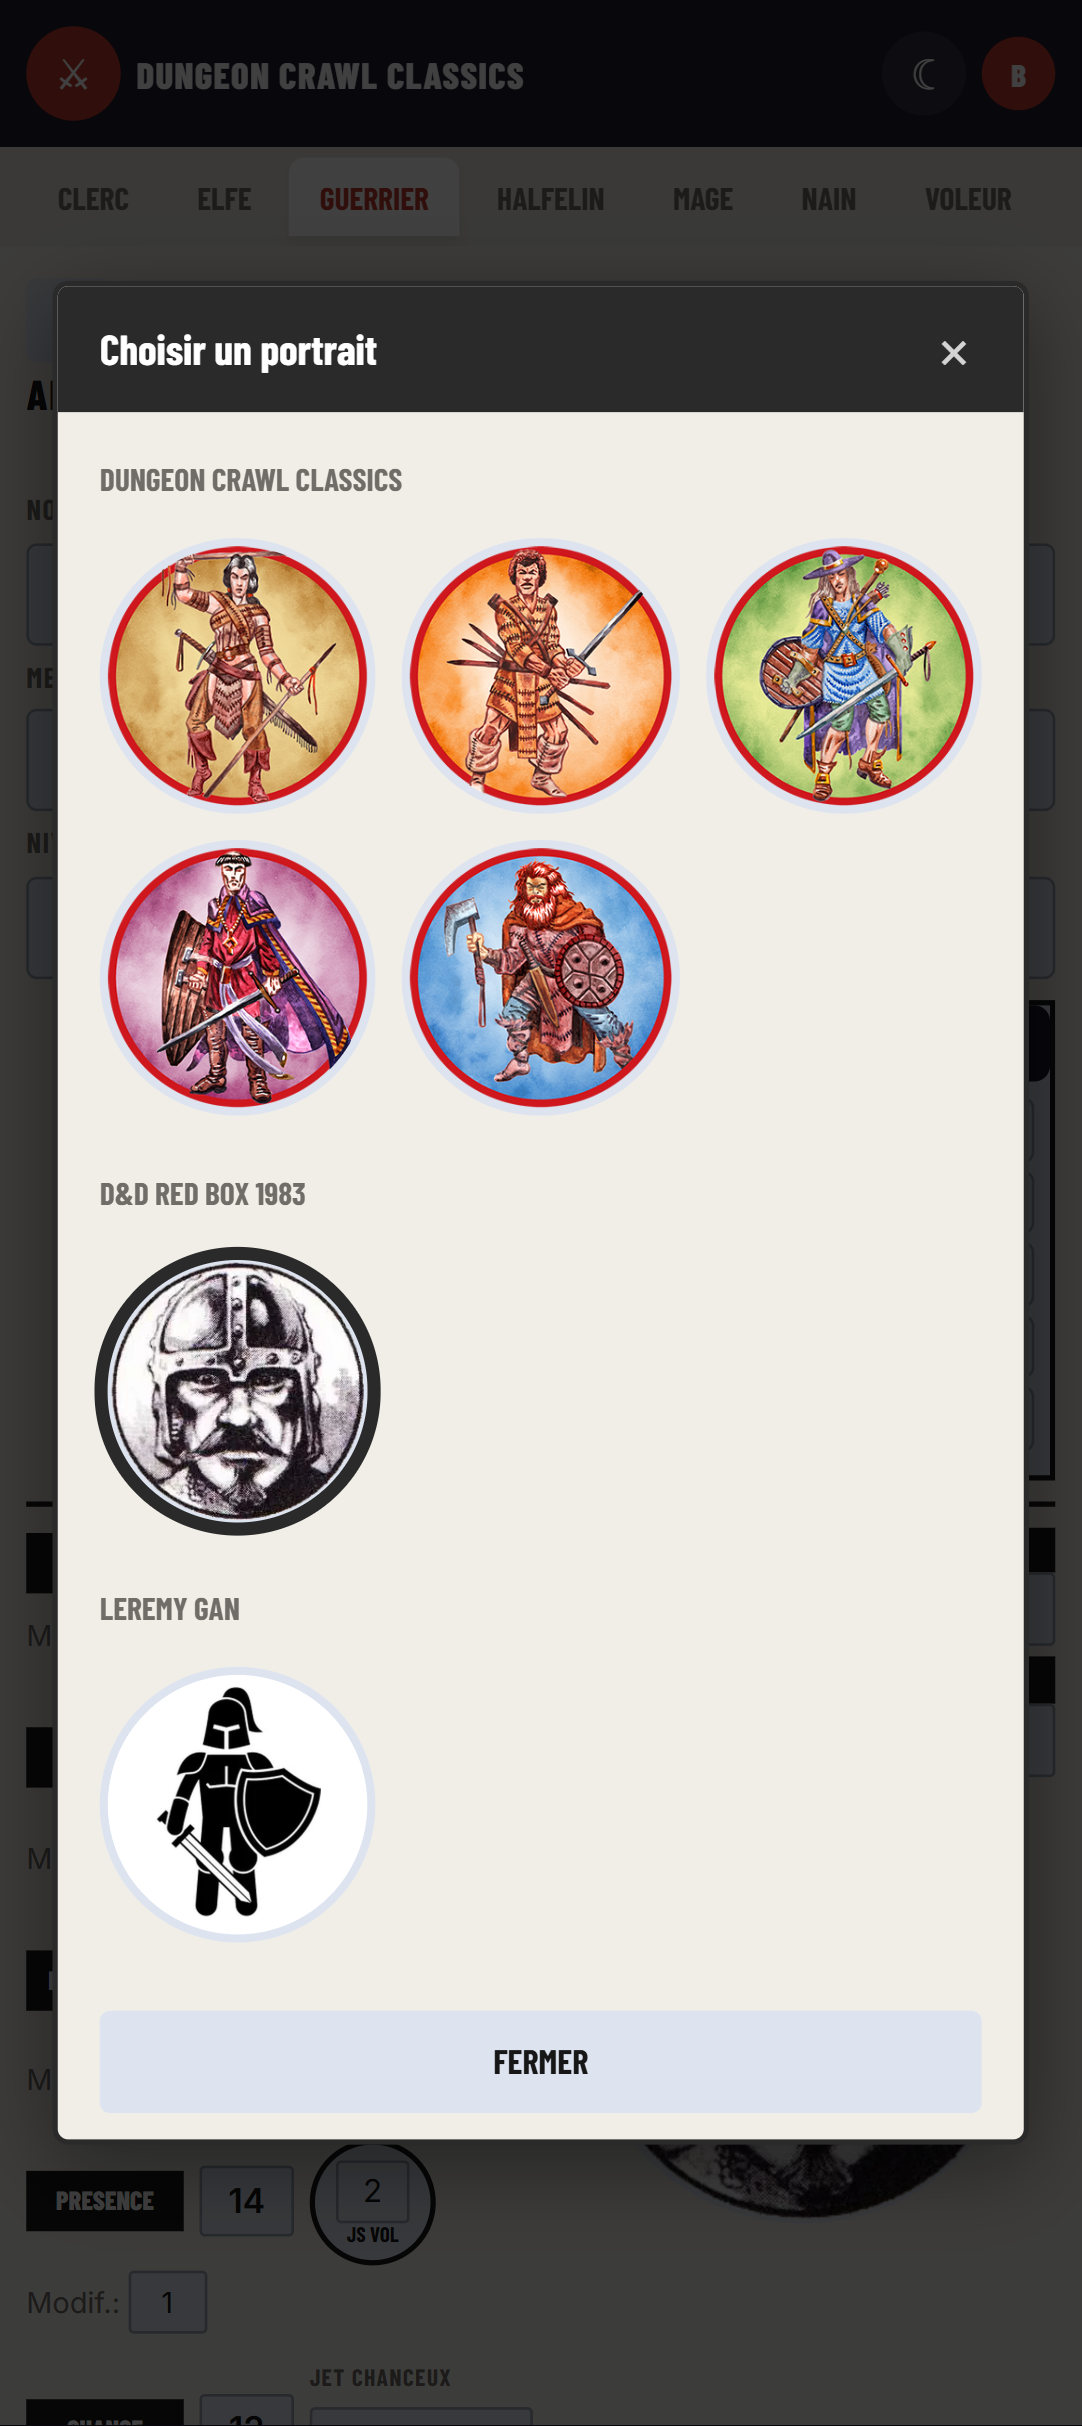
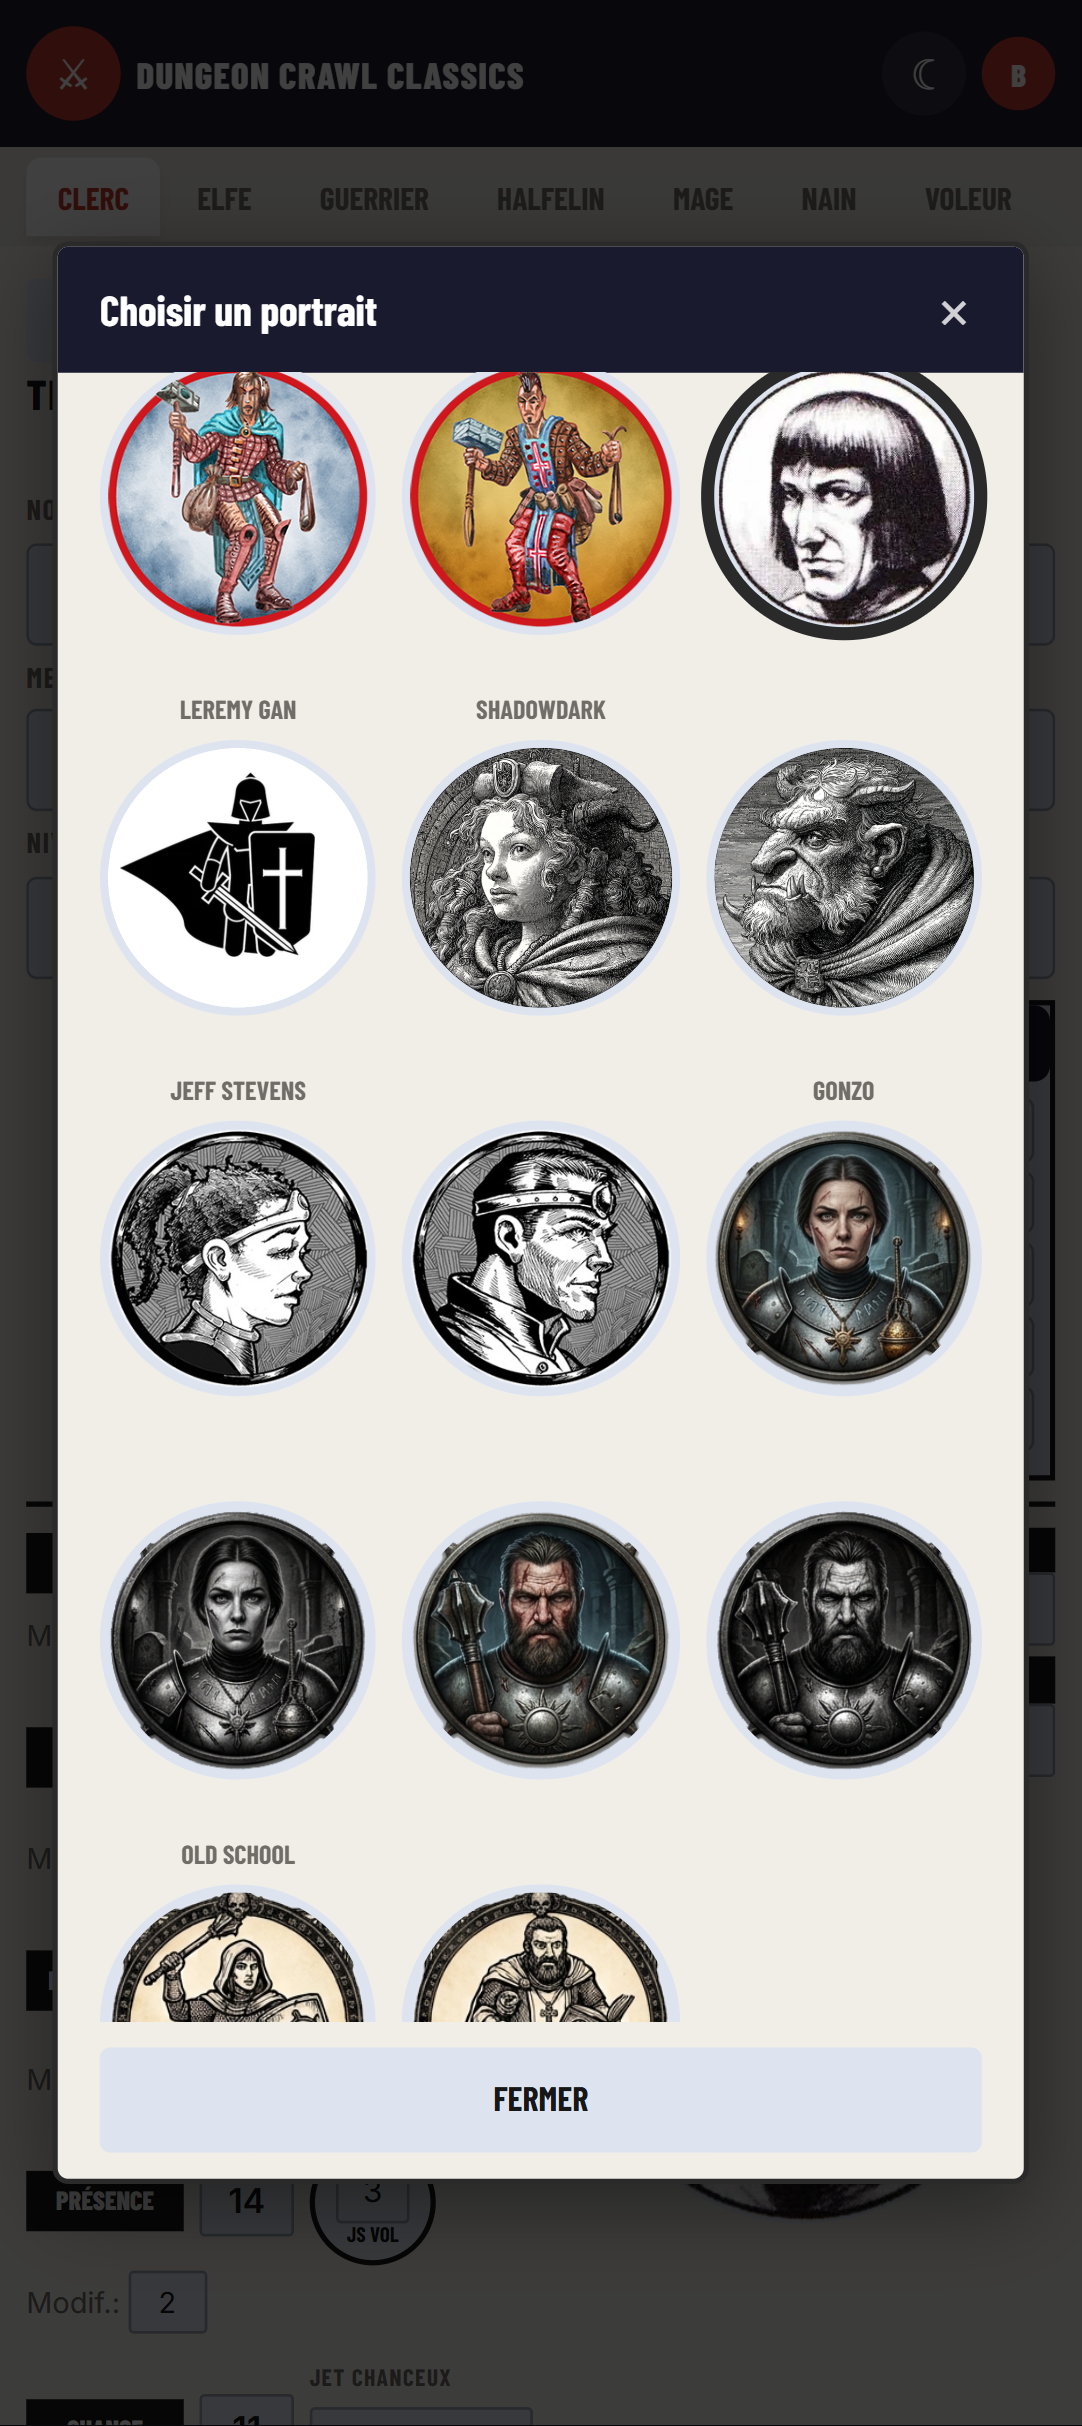
popup portraits : grille continue, libellés de source au-dessus du premier portrait, MAJ docs et capture

diff --git a/script.js b/script.js
@@ -1015,23 +1015,14 @@
       body.className = 'portrait-picker-body';
 
       var scrollTarget = null;
+      var grid = document.createElement('div');
+      grid.className = 'portrait-picker-grid';
 
       window.PortraitSources.forEach(function (ps) {
         var entry = ps[cls];
         if (!entry) return;
         var images = Array.isArray(entry) ? entry : [entry];
         if (images.length === 0) return;
-
-        var section = document.createElement('div');
-        section.className = 'portrait-picker-section';
-
-        var sectionTitle = document.createElement('div');
-        sectionTitle.className = 'portrait-picker-section-title';
-        sectionTitle.textContent = ps.meta.label;
-        section.appendChild(sectionTitle);
-
-        var grid = document.createElement('div');
-        grid.className = 'portrait-picker-grid';
 
         images.forEach(function (src, i) {
           var imgEl = document.createElement('img');
@@ -1045,12 +1036,20 @@
           imgEl.addEventListener('click', function () {
             close({ source: ps.meta.key, index: i });
           });
-          grid.appendChild(imgEl);
-        });
 
-        section.appendChild(grid);
-        body.appendChild(section);
+          var cell = document.createElement('div');
+          cell.className = 'portrait-picker-cell';
+
+          var sectionTitle = document.createElement('div');
+          sectionTitle.className = 'portrait-picker-section-title';
+          if (i === 0) sectionTitle.textContent = ps.meta.label;
+          cell.appendChild(sectionTitle);
+          cell.appendChild(imgEl);
+          grid.appendChild(cell);
+        });
       });
+
+      body.appendChild(grid);
 
       picker.appendChild(body);
 

diff --git a/style.css b/style.css
@@ -2471,23 +2471,25 @@ input[type="number"]::-webkit-outer-spin-button {
   padding: 16px;
 }
 
-.portrait-picker-section {
-  margin-bottom: 20px;
-}
-
-.portrait-picker-section:last-child {
-  margin-bottom: 0;
+.portrait-picker-cell {
+  display: flex;
+  flex-direction: column;
+  justify-content: flex-start;
 }
 
 .portrait-picker-section-title {
   font-family: var(--font-heading);
-  font-size: 12px;
+  font-size: 10px;
   font-weight: 700;
   text-transform: uppercase;
   color: var(--muted);
-  margin: 0 0 10px;
-  padding-bottom: 4px;
-  border-bottom: 1px solid var(--border);
+  text-align: center;
+  margin: 0 0 6px;
+  line-height: 1.2;
+  min-height: 24px;
+  display: flex;
+  align-items: flex-end;
+  justify-content: center;
 }
 
 .portrait-picker-grid {

diff --git a/MANUAL.md b/MANUAL.md
@@ -377,14 +377,14 @@ Sept sources sont disponibles :
 ### 7.1 Choisir un portrait (mode opératoire)
 
 1. Ouvrez la fiche, cliquez sur le portrait.
-2. La popup **« Choisir un portrait »** s'ouvre : les images sont groupées par source, en 3 colonnes (2 sur mobile).
+2. La popup **« Choisir un portrait »** s'ouvre : grille continue de portraits ronds (3 colonnes, 2 sur mobile), le **nom de chaque source** s'affiche **au-dessus du premier portrait** de cette source.
 3. Le portrait courant est **surligné** (bordure accent) et la liste s'y **défile automatiquement**.
 4. Cliquez sur une image : la popup se ferme, l'image et le choix sont **sauvegardés automatiquement** (toast disquette).
 5. Pour annuler : bouton **✕** (en-tête), bouton **FERMER** (pied), clic en dehors de la fenêtre, ou touche **Échap**.
 
-<img src="captures/choix-portrait.png" alt="Popup « Choisir un portrait » : les images sont groupées par source, en grille de portraits ronds" width="420">
+<img src="captures/choix-portrait.png" alt="Popup « Choisir un portrait » : grille continue de portraits ronds, le nom de chaque source affiché au-dessus de son premier portrait" width="420">
 
-*La popup de choix : les images sont regroupées par source (DCC, Red Box, Leremy Gan, Shadowdark, Jeff Stevens, Gonzo, Old School). Le portrait courant est cerclé de la couleur d'accent.*
+*La popup de choix : grille continue (3 colonnes) ; le libellé de chaque source (DCC, Red Box, Leremy Gan, Shadowdark, Jeff Stevens, Gonzo, Old School) apparaît au-dessus du premier portrait de la section. Le portrait courant est cerclé de la couleur d'accent.*
 
 ### 7.2 Où le portrait apparaît
 
@@ -582,7 +582,7 @@ Les exports **individuels** (bouton **Export** des fiches) servent au transfert 
 | Voleur | d6 | 3 | 1 | 1 | **3** | 1 | 4 | 2 |
 | **Total** | — | **20 tokens** | **7 illustrations** | **7 silhouettes** | **12 images** | **8 planches** | **32 images** | **17 images** |
 
-- La sélection se fait via la popup **« Choisir un portrait »** (§ 7) : les sept sources y sont proposées, groupées par section.
+- La sélection se fait via la popup **« Choisir un portrait »** (§ 7) : les sept sources y sont proposées, libellé au-dessus du premier portrait de chaque section.
 
 ---
 

diff --git a/README.md b/README.md
@@ -36,7 +36,7 @@ Manuel d'utilisation consultable dans **[MANUAL.md](./MANUAL.md)**
 
 ### Portrait
 - 7 sources d'images : **DCC** (tokens officiels, 20 images), **D&D Red Box 1983** (7 illustrations), **Leremy Gan** (7 silhouettes), **Shadowdark** (12 images), **Jeff Stevens** (8 planches), **Gonzo** (32 images) et **Old School** (17 images)
-- **Popup « Choisir un portrait »** : clic sur le portrait dans la fiche → grille regroupee par source (3 colonnes, 2 sur mobile)
+- **Popup « Choisir un portrait »** : clic sur le portrait dans la fiche → grille continue (3 colonnes, 2 sur mobile), libellé de source au-dessus du premier portrait de chaque section
 - Portrait courant surligne (bordure accent) et scroll automatique vers lui
 - Fermeture : bouton X, bouton Fermer, clic en dehors, ou touche Echap
 - Choix sauvegarde avec le personnage en base, propage dans les imports/exports JSON individuels et globaux
